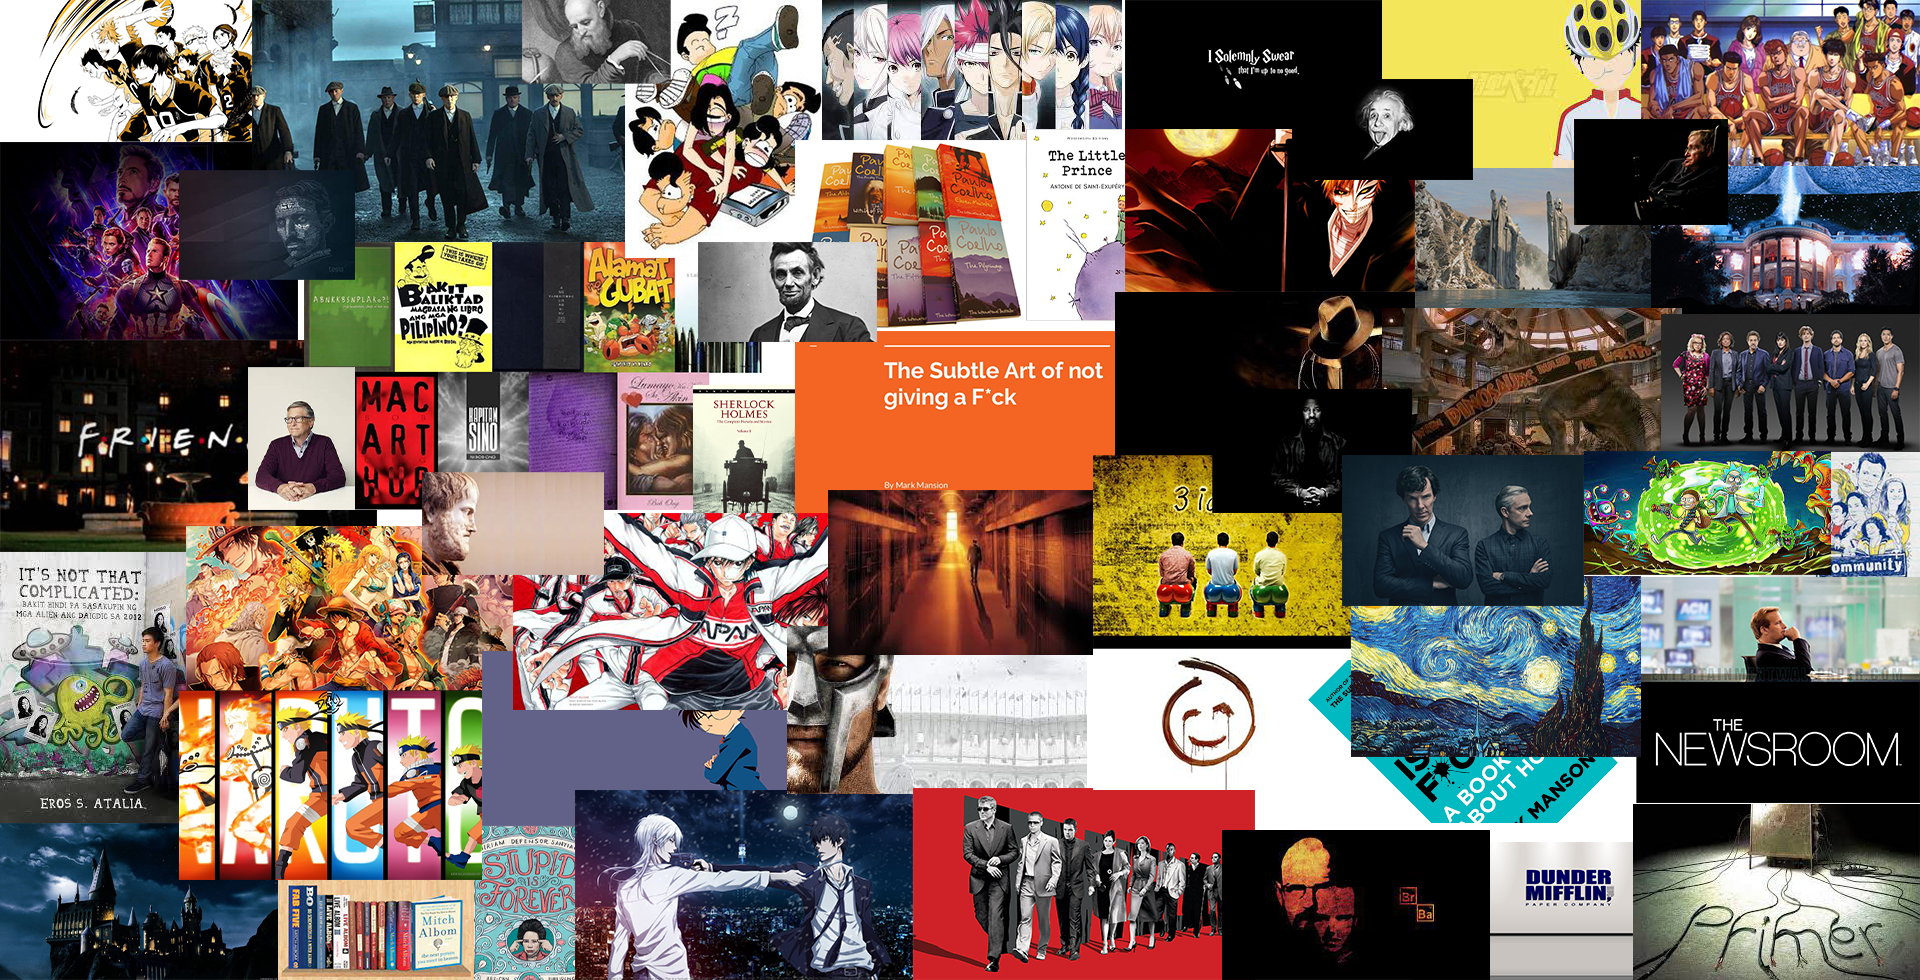
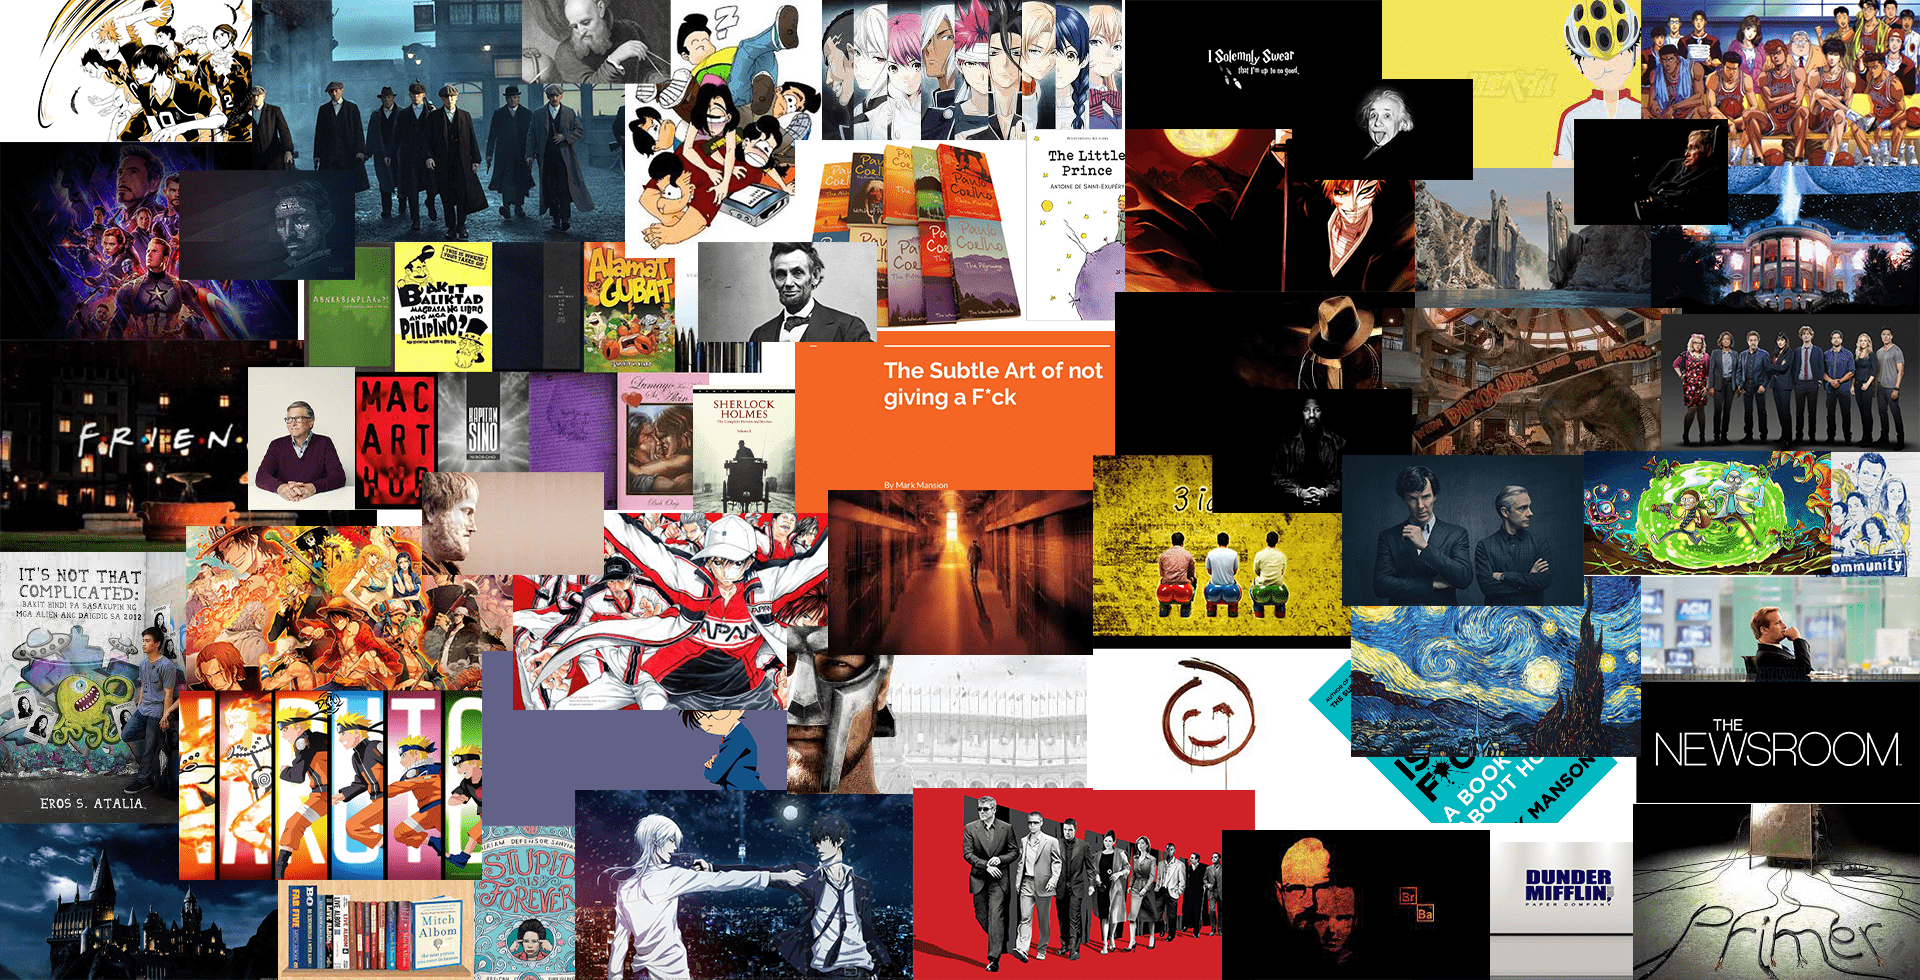
up 30 images

diff --git a/src/components/ArrayImages.js b/src/components/ArrayImages.js
@@ -22,6 +22,12 @@ import img21 from "../images/21.jpeg";
 import img22 from "../images/22.jpeg";
 import img23 from "../images/23.jpeg";
 import img24 from "../images/24.jpeg";
+import img25 from "../images/25.jpeg";
+import img26 from "../images/26.jpeg";
+import img27 from "../images/27.jpeg";
+import img28 from "../images/28.jpeg";
+import img29 from "../images/29.jpeg";
+import img30 from "../images/30.jpeg";
 
 export const ArrayImages = [
   {
@@ -233,7 +239,59 @@ export const ArrayImages = [
     place: "Gladiator",
     alt: "Marcus",
   },
-
+  {
+    id: 25,
+    image: img25,
+    content:
+      "I think that's what people most always do with the stuff they can't make out - just forget it.",
+    author: "Paul Edgecomb",
+    place: "Green Mile",
+    alt: "Paul",
+  },
+  {
+    id: 26,
+    image: img26,
+    content:
+      "If you want to be a good archeologist, you gotta get out of the library.",
+    author: "Henry Jones Jr.",
+    place: "Indiana Jones and the Kingdom of Crystal Skull",
+    alt: "Henry",
+  },
+  {
+    id: 27,
+    image: img27,
+    content:
+      "All we have to decide is what to do with the time that is given to us.",
+    author: "Gandalf the Grey",
+    place: "The Lord of the Rings: The Fellowship of the Rings",
+    alt: "Gandalf",
+  },
+  {
+    id: 28,
+    image: img28,
+    content:
+      "If you fear the future so much, how can you live? And how can you focus on today?",
+    author: "Rancho",
+    place: "3 Idiots",
+    alt: "Rancho",
+  },
+  {
+    id: 29,
+    image: img29,
+    content:
+      "Perhaps it's fate that today is the Fourth of July, and you will once again be fighting for our freedom. Not from tyranny, oppression, or persecution... but from annihilation. We are fighting for our right to live. To exist.",
+    author: "Thomas J. Whitmore",
+    place: "Independence Day",
+    alt: "Thomas",
+  },
+  {
+    id: 30,
+    image: img30,
+    content: "Life finds a way.",
+    author: "Ian Malcolm",
+    place: "Jurassic Park",
+    alt: "Ian",
+  },
   // {
   //   id: 2,
   //   image: img2,

diff --git a/src/components/pages/Main.js b/src/components/pages/Main.js
@@ -7,19 +7,19 @@ const Main = () => {
 
   const nextSlide = () => {
     setCurrent(current === length - 1 ? 0 : current + 1);
-    for (let i = length - 1; i > 0; i--) {
-      const rand = Math.floor(Math.random() * i);
-      const temp = ArrayImages[i];
-      ArrayImages[i] = ArrayImages[rand];
-      ArrayImages[rand] = temp;
-    }
+    // for (let i = length - 1; i > 0; i--) {
+    //   const rand = Math.floor(Math.random() * i);
+    //   const temp = ArrayImages[i];
+    //   ArrayImages[i] = ArrayImages[rand];
+    //   ArrayImages[rand] = temp;
+    // }
   };
 
   const prevSlide = () => {
     setCurrent(current === 0 ? length - 1 : current - 1);
   };
 
-  document.addEventListener("keydown", (event) => console.log(event.key));
+  // document.addEventListener("keydown", (event) => console.log(event.key));
 
   return (
     <React.Fragment>
